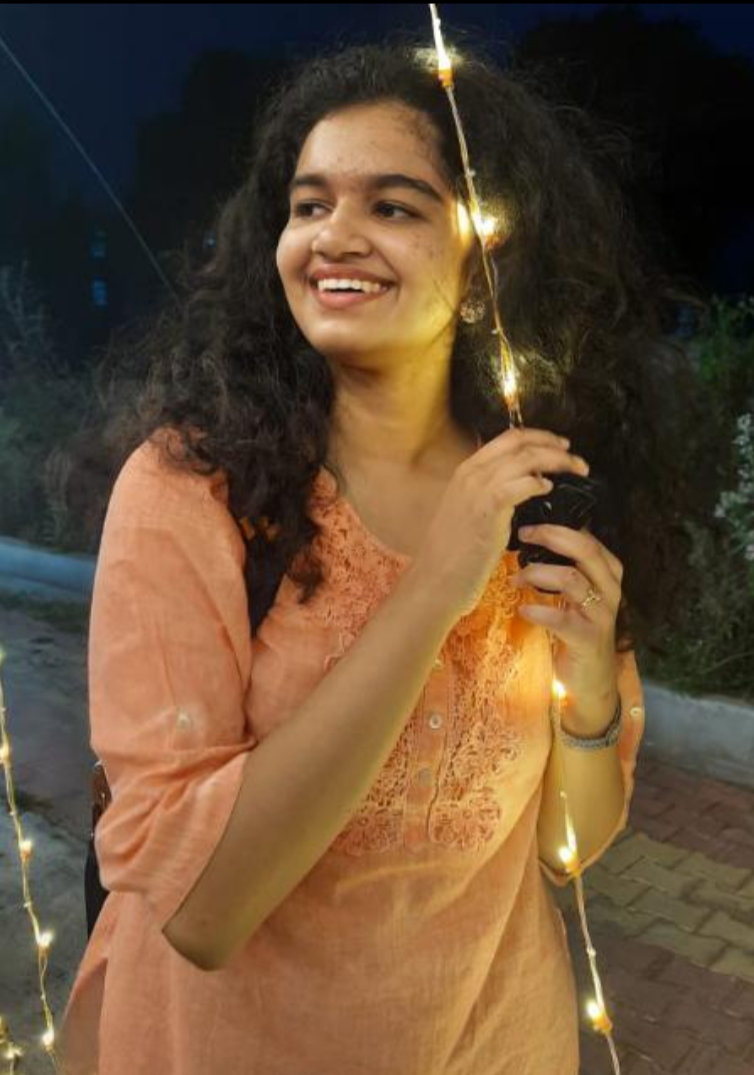
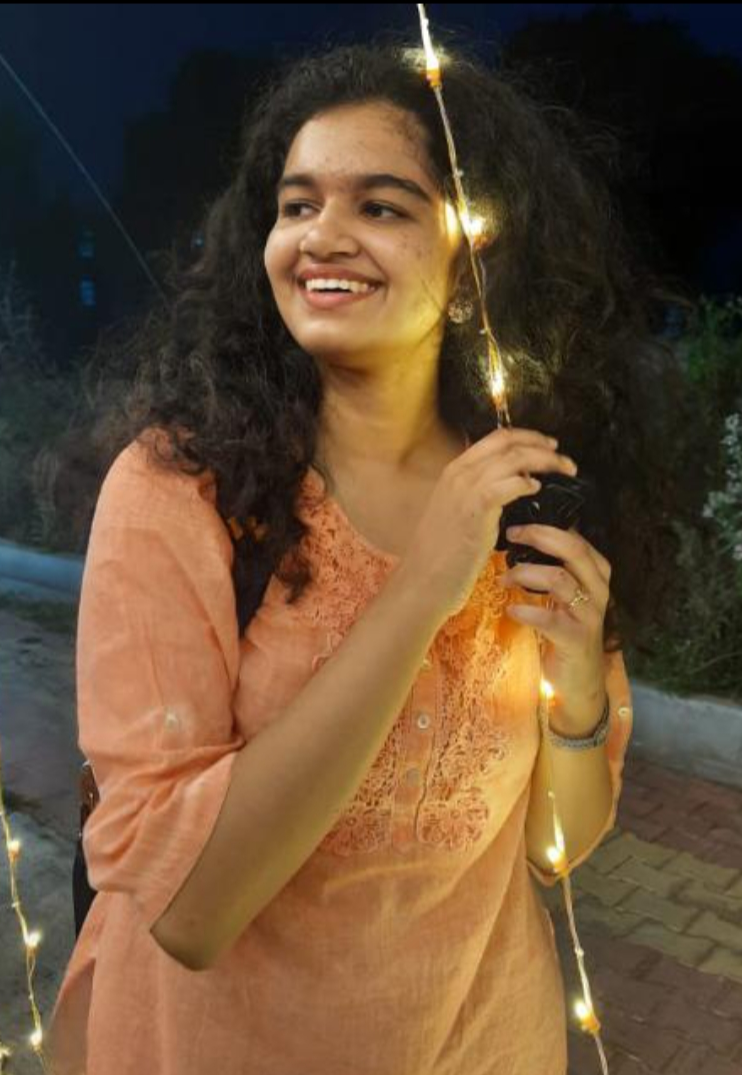
added new images

diff --git a/0eb613cd6ab211fe9f3883f3d65501117ac74c1d/index.html b/0eb613cd6ab211fe9f3883f3d65501117ac74c1d/index.html
@@ -50,7 +50,9 @@
 </head>
 
 <body>
-  
+  <div class="loader-wrapper">
+    <span class="loader"><span class="loader-inner"></span></span>
+  </div>
     <div class="container">
         
         <div class = "center">A Special Message</div>
@@ -103,12 +105,17 @@
             <!-- Additional required wrapper -->
             <div class="swiper-wrapper">
               <!-- Slides -->
-              <div class="swiper-slide"><img src ="img/neeharika_1.png" alt=""></div>
+              <div class="swiper-slide"><img src ="img/neeharika_1-min.jpg" alt=""></div>
               <div class="swiper-slide"><img src ="img/neeharika_2-min.jpg" alt=""></div>
               <div class="swiper-slide"><img src ="img/neeharika_3-min.jpg" alt=""></div>
               <div class="swiper-slide"><img src ="img/neeharika_4-min.jpg" alt=""></div>
               <div class="swiper-slide"><img src ="img/neeharika_5-min.jpg" alt=""></div>
               <div class="swiper-slide"><img src ="img/neeharika_6-min.jpg" alt=""></div>
+              <div class="swiper-slide"><img src ="img/neeharika_9-min.jpg" alt=""></div>
+              <div class="swiper-slide"><img src ="img/neeharika_10-min.jpg" alt=""></div>
+              <div class="swiper-slide"><img src ="img/neeharika_12-min.jpg" alt=""></div>
+              <div class="swiper-slide"><img src ="img/neeharika_13-min.jpg" alt=""></div>
+              <div class="swiper-slide"><img src ="img/neeharika_14-min.jpg" alt=""></div>
               
               ...
               
@@ -133,9 +140,7 @@
 
       </div>
     </div>
-      <div class="loader-wrapper">
-        <span class="loader"><span class="loader-inner"></span></span>
-      </div>
+      
       <script src="https://cdn.jsdelivr.net/npm/swiper@8/swiper-bundle.min.js"></script>
       <script>
         const swiper = new Swiper('.swiper', {

diff --git a/index.html b/index.html
@@ -84,10 +84,13 @@ div.vertical {
 				</div>
 				<div class = "center_new">
 					<marquee style= color:white>As long as you are here trying to crack this password, why not listen to this music while doing it..</marquee>
-				<audio controls loop autoplay>
+				    
+					<audio controls loop autoplay>
 						<source src = "jetblackheart.mp3" type = "audio/mpeg">
 						
 					  </audio>
+					  
+					  
 				</div>
 				
 			</div>
@@ -182,5 +185,6 @@ div.vertical {
 		document.getElementById("time").innerHTML = `The time is ${ft} it is ${type}`;
 		//CSS gradient backgrounds from https://uigradients.com
 	</script>
+	
 </body>
 </html>
